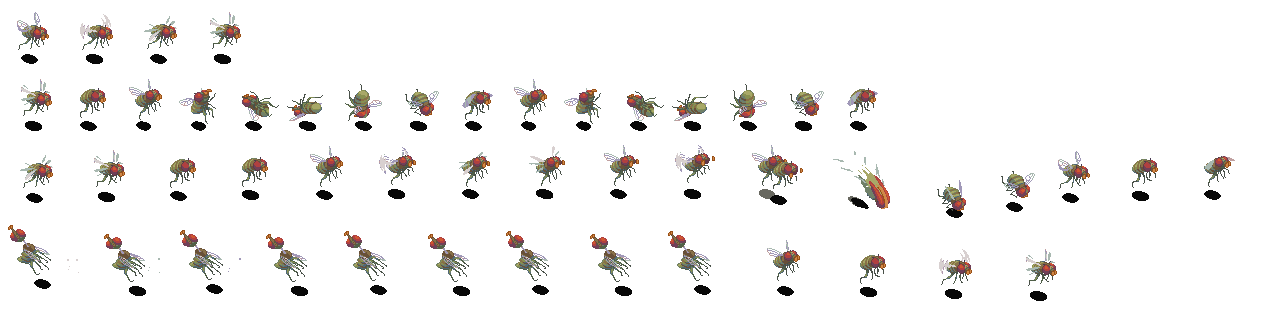
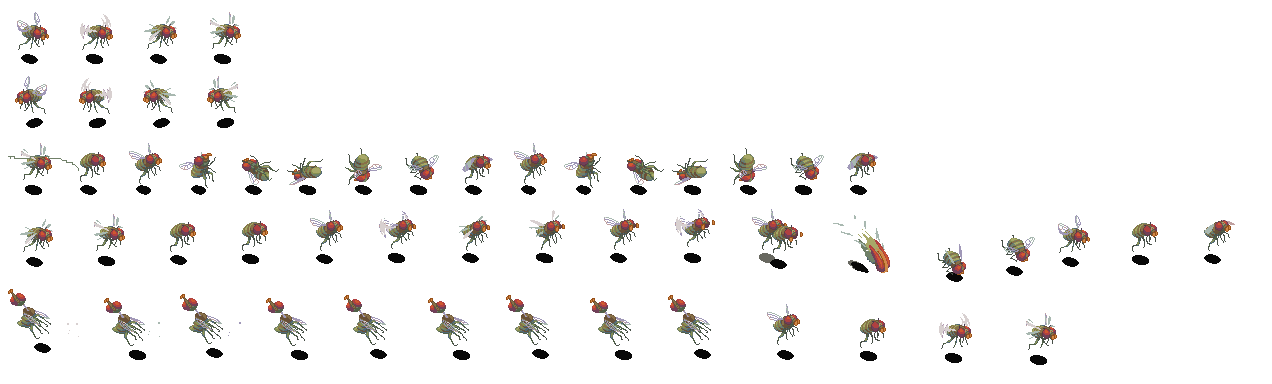
feat: enemy animations

diff --git a/src/entities/Enemy.ts b/src/entities/Enemy.ts
@@ -1,4 +1,4 @@
-import { ColorMatrixFilter, type Sprite } from "pixi.js";
+import { ColorMatrixFilter, Sprite, Texture } from "pixi.js";
 import { Entity } from "../core/Entity";
 import { Collider } from "../core/Collider";
 import { CollisionManager } from "../core/CollisionManager";
@@ -6,11 +6,15 @@ import { Player } from "./Player";
 import { AttackComponent } from "../core/AttackComponent";
 import { AttackCollider } from "../core/AttackCollider";
 import * as Constants from "../utils/Constants";
+import { AnimationController } from "../core/AnimationController";
 
 export class Enemy extends Entity {
   private sprite: Sprite;
   private collider: Collider;
   public tag: string = "enemy";
+  private currentDir: string = "down";
+  private frames: Record<string, Texture[]>;
+  private anim: AnimationController;
 
   private maxHealthPoints: number = 3;
   private healthPoints: number = this.maxHealthPoints;
@@ -18,7 +22,6 @@ export class Enemy extends Entity {
   private isHitFlashing: boolean = false;
   private hitFlashTimer: number = 0;
   private HIT_FLASH_DURATION: number = 80;
-  private currentDir: string = "down";
 
   private playerRef: Player;
   private speed: number = 100; // pixels/second
@@ -32,12 +35,18 @@ export class Enemy extends Entity {
   private attackCooldown: number = 2000;
   private attackTimer: number = 0;
 
-  constructor(texture: Sprite, playerRef: Player) {
+  constructor(frames: Record<string, Texture[]>, playerRef: Player) {
     super();
 
-    this.sprite = texture;
+    this.frames = frames;
+    this.sprite = new Sprite(this.frames["idle_down"][0]);
     this.sprite.anchor.set(0.5);
     this.sprite.scale.set(Constants.SCALE_FACTOR);
+    this.anim = new AnimationController(this.sprite);
+    this.setupAnimation();
+
+    this.anim.play("idle_down");
+
     this.container.addChild(this.sprite);
 
     this.collider = new Collider(28, 24, 2, 0, this.container, this);
@@ -59,7 +68,7 @@ export class Enemy extends Entity {
 
     this.playerRef = playerRef;
 
-    this.collider.drawDebug();
+    // this.collider.drawDebug();
   }
 
   update(_deltaTime: number): void {
@@ -78,6 +87,14 @@ export class Enemy extends Entity {
           this.attackCollider.updatePosition();
         }
       }
+    }
+
+    this.anim.update(_deltaTime);
+  }
+
+  setupAnimation() {
+    for (const key in this.frames) {
+      this.anim.addAnimation(key, this.frames[key]);
     }
   }
 
@@ -155,6 +172,14 @@ export class Enemy extends Entity {
       this.container.y += moveY;
 
     this.updateDirection({ x: moveX, y: moveY });
+
+    if (this.container.x !== 0 || this.container.y !== 0) {
+      this.anim.play(`walk_${this.currentDir}`);
+    } else {
+      this.anim.play(`idle_${this.currentDir}`);
+    }
+
+    this.anim.update(deltaMS);
   }
 
   protected basicAttack() {

diff --git a/src/main.ts b/src/main.ts
@@ -66,6 +66,10 @@ import map_01_colliders from "./assets/maps/mock_map_01.json";
     idle_left: frameSlicer(assets["_toxic_fly"], frameSize, 4, 0),
     idle_up: frameSlicer(assets["_toxic_fly"], frameSize, 4, 0),
     idle_right: frameSlicer(assets["_toxic_fly"], frameSize, 4, 0),
+    walk_down: frameSlicer(assets["_toxic_fly"], frameSize, 4, 0),
+    walk_right: frameSlicer(assets["_toxic_fly"], frameSize, 4, 0),
+    walk_up: frameSlicer(assets["_toxic_fly"], frameSize, 4, 1),
+    walk_left: frameSlicer(assets["_toxic_fly"], frameSize, 4, 1),
   };
 
   const player: Player = new Player(frames);
@@ -73,20 +77,15 @@ import map_01_colliders from "./assets/maps/mock_map_01.json";
   player.container.y = 512;
 
   // Enemy prototype
-  const enemySprite = new Sprite(enemyFrames["idle_down"][0]);
-  const enemy_01 = new Enemy(enemySprite, player);
-  enemy_01.container.x = 600;
+  const enemy_01 = new Enemy(enemyFrames, player);
+  enemy_01.container.x = 500;
   enemy_01.container.y = 512;
-
-  // const enemySprite2 = new Sprite(frames["dash_down"][4]);
-  // const enemy_02 = new Enemy(enemySprite2, player);
-  // enemy_02.container.x = 560;
-  // enemy_02.container.y = 582;
-
-  // const enemySprite3 = new Sprite(frames["dash_down"][4]);
-  // const enemy_03 = new Enemy(enemySprite3, player);
-  // enemy_03.container.x = 595;
-  // enemy_03.container.y = 582;
+  const enemy_02 = new Enemy(enemyFrames, player);
+  enemy_02.container.x = 500;
+  enemy_02.container.y = 612;
+  const enemy_03 = new Enemy(enemyFrames, player);
+  enemy_03.container.x = 580;
+  enemy_03.container.y = 512;
 
   const map: Sprite = new Sprite(
     new Texture({
@@ -106,10 +105,12 @@ import map_01_colliders from "./assets/maps/mock_map_01.json";
   camera.addChild(world);
   world.addChild(map);
   world.addChild(enemy_01.container);
+  world.addChild(enemy_02.container);
+  world.addChild(enemy_03.container);
   world.addChild(player.container);
   world.addChild(...walls.map((wall) => wall.container));
 
-  enemiesList.push(enemy_01);
+  enemiesList.push(enemy_01, enemy_02, enemy_03);
 
   resizeViewport(viewport);
 
